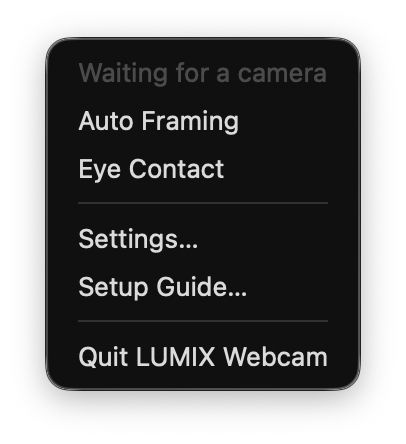
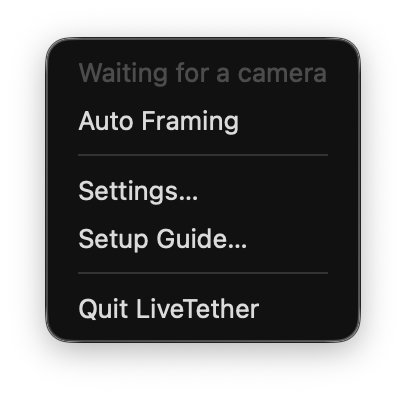
feat: rename the app to LiveTether and add an installer package
The app, its menu, setup guide, virtual camera and manufacturer are now
named LiveTether, and LUMIX appears only to name the supported cameras.
Bundle identifiers, the app group and the log subsystem are unchanged, so
an installed camera extension and its settings carry over. The extension
build number is 5.

scripts/make-installer.sh builds a signed and notarized installer package
that installs the app in /Applications, quits a running copy first and
opens the app afterwards.

Changed region(s): [[0.0887, 0.0606, 0.8867, 0.4242], [0.1773, 0.4545, 0.798, 0.697], [0.0887, 0.7576, 0.8867, 0.8788]]

diff --git a/scripts/check-window-layout.swift b/scripts/check-window-layout.swift
@@ -1,4 +1,4 @@
-// Opens every window of the LUMIX Webcam app in each language and reports text cut short with an
+// Opens every window of the LiveTether app in each language and reports text cut short with an
 // ellipsis, content that scrolls, and windows taller than the screen.
 //
 // The app is started once per language with -AppleLanguages. The setup guide opens by itself while
@@ -9,12 +9,12 @@
 // a line ends in an ellipsis.
 //
 // The app's windows come to the front for about ten seconds per language. The terminal running
-// the check needs the Accessibility and Screen Recording permissions. Quit LUMIX Webcam first.
+// the check needs the Accessibility and Screen Recording permissions. Quit LiveTether first.
 //
 // With --screenshots, each window is also saved with its shadow, and the menu bar menu as well, as
 // <directory>/<language>-<window>.png.
 //
-// Usage: swift scripts/check-window-layout.swift <LUMIX Webcam.app> [--screenshots <directory>] [language ...]
+// Usage: swift scripts/check-window-layout.swift <LiveTether.app> [--screenshots <directory>] [language ...]
 // Exit status 0 means no window had a finding.
 
 import AppKit
@@ -297,7 +297,7 @@ func run(language: String) {
     func localized(_ key: String) -> String { table[key] ?? key }
 
     let process = Process()
-    process.executableURL = appURL.appendingPathComponent("Contents/MacOS/LUMIX Webcam")
+    process.executableURL = appURL.appendingPathComponent("Contents/MacOS/LiveTether")
     process.arguments = ["-AppleLanguages", "(\(language))"]
     do {
         try process.run()
@@ -317,19 +317,19 @@ func run(language: String) {
         return
     }
     // The guide opens by itself only while a setup step remains; otherwise open it from the menu.
-    var guide = waitForWindow(of: app, titled: localized("LUMIX Webcam Setup"), timeout: 3)
+    var guide = waitForWindow(of: app, titled: localized("LiveTether Setup"), timeout: 3)
     if guide == nil, let item = waitForMenuBarItem(of: app, timeout: 1) {
         AXUIElementPerformAction(item, kAXPressAction as CFString)
         wait(0.5)
         if let entry = descendants(item, where: { role($0) == kAXMenuItemRole && title($0) == localized("Setup Guide…") }).first {
             AXUIElementPerformAction(entry, kAXPressAction as CFString)
         }
-        guide = waitForWindow(of: app, titled: localized("LUMIX Webcam Setup"), timeout: 5)
+        guide = waitForWindow(of: app, titled: localized("LiveTether Setup"), timeout: 5)
     }
     if let guide {
         wait(0.8)
         check(window: guide, pid: process.processIdentifier, name: "setup-guide", language: language,
-              anchors: [localized("Set Up LUMIX Webcam")])
+              anchors: [localized("Set Up LiveTether")])
     } else {
         findings.append("[\(language)] setup guide did not open")
     }
@@ -386,8 +386,8 @@ func run(language: String) {
     }
 }
 
-guard FileManager.default.fileExists(atPath: appURL.appendingPathComponent("Contents/MacOS/LUMIX Webcam").path) else {
-    print("usage: swift scripts/check-window-layout.swift <LUMIX Webcam.app> [language ...]")
+guard FileManager.default.fileExists(atPath: appURL.appendingPathComponent("Contents/MacOS/LiveTether").path) else {
+    print("usage: swift scripts/check-window-layout.swift <LiveTether.app> [language ...]")
     exit(2)
 }
 guard AXIsProcessTrusted(), CGPreflightScreenCaptureAccess() else {

diff --git a/App/Views/SetupGuideView.swift b/App/Views/SetupGuideView.swift
@@ -11,17 +11,17 @@ struct SetupGuideView: View {
 
     var body: some View {
         VStack(alignment: .leading, spacing: 18) {
-            Text("Set Up LUMIX Webcam")
+            Text("Set Up LiveTether")
                 .font(.title2.weight(.semibold))
                 .fixedSize(horizontal: false, vertical: true)
 
             GuideStep(number: 1, title: "Run from the Applications folder", done: model.installer.isInApplicationsFolder) {
-                Text("The camera extension can only be installed while LUMIX Webcam runs from the Applications folder.")
+                Text("The camera extension can only be installed while LiveTether runs from the Applications folder.")
             }
 
             GuideStep(number: 2, title: "Install the camera extension", done: model.installer.state == .installed) {
                 Text(verbatim: StatusText.installer(model.installer.state))
-                Text("After you click Install, allow LUMIX Webcam in System Settings > General > Login Items & Extensions > Camera Extensions.")
+                Text("After you click Install, allow LiveTether in System Settings > General > Login Items & Extensions > Camera Extensions.")
                 HStack {
                     Button("Install") { model.installer.install() }
                         .disabled(model.installer.state == .installed || model.installer.state == .installing)
@@ -33,12 +33,12 @@ struct SetupGuideView: View {
                 Text("Set the camera's USB mode to PC (Tether) and connect it to this Mac with a USB cable. Avoid USB hubs and charge-only ports.")
             }
 
-            GuideStep(number: 4, title: "Choose LUMIX Webcam as the camera", done: model.clientsActive) {
-                Text("In any app that uses a camera, such as FaceTime, Zoom, OBS or QuickTime Player, choose LUMIX Webcam.")
+            GuideStep(number: 4, title: "Choose LiveTether as the camera", done: model.clientsActive) {
+                Text("In any app that uses a camera, such as FaceTime, Zoom, OBS or QuickTime Player, choose LiveTether.")
             }
 
             if model.legacyPluginInstalled {
-                Text("The earlier LUMIX Webcam Software is still installed. macOS 14.1 and later do not load it, and LUMIX Webcam replaces it.")
+                Text("The earlier LUMIX Webcam Software is still installed. macOS 14.1 and later do not load it, and LiveTether replaces it.")
                     .font(.footnote)
                     .foregroundStyle(.secondary)
                     .fixedSize(horizontal: false, vertical: true)

diff --git a/Packages/LumixKit/Sources/LumixVirtualCamera/VirtualCameraIdentity.swift b/Packages/LumixKit/Sources/LumixVirtualCamera/VirtualCameraIdentity.swift
@@ -8,12 +8,12 @@ public enum VirtualCameraIdentity {
     public static let sourceStreamID = UUID(uuidString: "C573536A-1488-407C-B379-3F6992A544D6")!
     public static let sinkStreamID = UUID(uuidString: "5256F64F-D6B4-48E1-9853-E18C29D5C279")!
 
-    public static let deviceName = "LUMIX Webcam"
-    public static let modelName = "LUMIX Webcam"
+    public static let deviceName = "LiveTether"
+    public static let modelName = "LiveTether"
     /// The independent project that provides the virtual camera, not the camera maker.
-    public static let manufacturer = "LUMIX Webcam Project"
-    public static let sourceStreamName = "LUMIX Webcam Video"
-    public static let sinkStreamName = "LUMIX Webcam Input"
+    public static let manufacturer = "LiveTether Project"
+    public static let sourceStreamName = "LiveTether Video"
+    public static let sinkStreamName = "LiveTether Input"
 
     public static var deviceUID: String { deviceID.uuidString }
 

diff --git a/Packages/LumixKit/Tools/SinkProbe/SinkProbe.swift b/Packages/LumixKit/Tools/SinkProbe/SinkProbe.swift
@@ -8,7 +8,7 @@ import LumixVirtualCamera
 /// the app and a camera, so the extension can be checked in any camera app without hardware.
 ///
 /// Usage: `lumix-sink-probe [seconds] [width] [height]` (defaults: 30 s, 1280 × 960). Quit the
-/// LUMIX Webcam app first; only one client can own the sink stream.
+/// LiveTether app first; only one client can own the sink stream.
 @main
 struct SinkProbe {
     static func main() async {
@@ -20,7 +20,7 @@ struct SinkProbe {
             try sink.connect()
         } catch {
             print("Cannot reach the camera extension's sink stream: \(error)")
-            print("Is the extension installed and activated? Is the LUMIX Webcam app quit?")
+            print("Is the extension installed and activated? Is the LiveTether app quit?")
             exit(1)
         }
         print("Sending a \(size) test pattern for \(seconds) s")

diff --git a/Packages/LumixKit/Tools/FramingProbe/FramingProbe.swift b/Packages/LumixKit/Tools/FramingProbe/FramingProbe.swift
@@ -10,7 +10,7 @@ import LumixVirtualCamera
 /// Every frame goes through the same detector, framer and cropper the app uses. The tool prints
 /// how often people were found and how the crop moved, and counts frames in which a framed person
 /// fell outside the crop. Without --no-sink it also feeds the framed pictures to the camera
-/// extension in real time, so the result can be watched in any camera app (quit LUMIX Webcam first).
+/// extension in real time, so the result can be watched in any camera app (quit LiveTether first).
 ///
 /// With --write <file>, the framed pictures are also written to a movie file.
 ///

diff --git a/App/LiveTetherApp.swift b/App/LiveTetherApp.swift
@@ -2,7 +2,7 @@ import AppKit
 import SwiftUI
 
 @main
-struct LumixWebcamApp: App {
+struct LiveTetherApp: App {
     @State private var model = AppModel()
 
     var body: some Scene {
@@ -16,7 +16,7 @@ struct LumixWebcamApp: App {
             SettingsView(model: model)
         }
 
-        Window("LUMIX Webcam Setup", id: SetupGuideView.windowID) {
+        Window("LiveTether Setup", id: SetupGuideView.windowID) {
             SetupGuideView(model: model)
         }
         .windowResizability(.contentSize)

diff --git a/App/StatusText.swift b/App/StatusText.swift
@@ -42,7 +42,7 @@ enum StatusText {
         case .uninstalling:
             return String(localized: "Uninstalling")
         case .outsideApplicationsFolder:
-            return String(localized: "Move LUMIX Webcam to the Applications folder first")
+            return String(localized: "Move LiveTether to the Applications folder first")
         case .failed(let reason):
             return String(localized: "Failed: \(reason)")
         }

diff --git a/scripts/make-app-icon.swift b/scripts/make-app-icon.swift
@@ -1,4 +1,4 @@
-// Draws the LUMIX Webcam app icon and writes it as a macOS app icon set.
+// Draws the LiveTether app icon and writes it as a macOS app icon set.
 //
 // The icon is a camera lens on a dark body, lit by green and blue coating reflections, with the red
 // light a webcam shows while it is in use. It carries no logo or lettering.

diff --git a/Packages/LumixKit/Sources/LumixProtocol/Logging.swift b/Packages/LumixKit/Sources/LumixProtocol/Logging.swift
@@ -1,6 +1,6 @@
 import os
 
-/// Unified-logging subsystem shared by every LUMIX Webcam process and module.
+/// Unified-logging subsystem shared by every LiveTether process and module.
 public enum LumixLog {
     public static let subsystem = "com.github.thkwag.lumixwebcam"
 

diff --git a/App/Views/MenuContent.swift b/App/Views/MenuContent.swift
@@ -30,7 +30,7 @@ struct MenuContent: View {
             NSApp.activate()
         }
         Divider()
-        Button("Quit LUMIX Webcam") {
+        Button("Quit LiveTether") {
             NSApp.terminate(nil)
         }
     }

diff --git a/README.md b/README.md
@@ -1,17 +1,19 @@
 <p align="center">
-  <img src="App/Assets.xcassets/AppIcon.appiconset/icon_128x128@2x.png" width="128" height="128" alt="LUMIX Webcam app icon">
+  <img src="App/Assets.xcassets/AppIcon.appiconset/icon_128x128@2x.png" width="128" height="128" alt="LiveTether app icon">
 </p>
 
-<h1 align="center">LUMIX Webcam</h1>
+<h1 align="center">LiveTether</h1>
 
-LUMIX Webcam turns the live view of a Panasonic LUMIX camera connected over USB into a webcam on
+<p align="center">A webcam for Panasonic LUMIX cameras on macOS</p>
+
+LiveTether turns the live view of a Panasonic LUMIX camera connected over USB into a webcam on
 macOS 14.1 and later. Any app that uses a camera can choose it: FaceTime, QuickTime Player, OBS,
 web browsers and video-conferencing apps.
 
-Panasonic's LUMIX Webcam Software does not support macOS 14.1 and later. LUMIX Webcam is a separate
+Panasonic's LUMIX Webcam Software does not support macOS 14.1 and later. LiveTether is a separate
 app built on Apple's Core Media I/O camera extension API.
 
-LUMIX Webcam is an independent project. It is not made, endorsed or supported by Panasonic.
+LiveTether is an independent project. It is not made, endorsed or supported by Panasonic.
 LUMIX and Panasonic are trademarks or registered trademarks of Panasonic Holdings Corporation and
 are used here only to name the cameras this app works with. All other trademarks belong to their
 respective owners.
@@ -19,10 +21,10 @@ respective owners.
 ## How it works
 
 - The menu bar app finds the camera through ImageCaptureCore and opens a PTP session with it.
-  While an app is using LUMIX Webcam, it turns on the camera's live view, fetches JPEG frames at up
+  While an app is using LiveTether, it turns on the camera's live view, fetches JPEG frames at up
   to 30 fps, decodes them and passes them to the camera extension. When no app is using LUMIX
   Webcam, it turns live view off.
-- The camera extension publishes a camera named LUMIX Webcam with 1920 × 1080, 1280 × 720 and
+- The camera extension publishes a camera named LiveTether with 1920 × 1080, 1280 × 720 and
   1280 × 960 formats at 30 fps. It fits the camera picture into the format the app chose, with
   black bars where the aspect ratios differ. While no camera picture arrives, it shows a standby
   screen that says why.
@@ -45,12 +47,13 @@ sends commands that change camera settings, format a card or update firmware.
 
 ## Set up
 
-1. Move LUMIX Webcam to the Applications folder and open it. A camera icon appears in the menu bar,
+1. Download the installer (`LiveTether-<version>.pkg`) from Releases and open it. The installer
+   puts LiveTether in the Applications folder and opens it. A camera icon appears in the menu bar,
    and the setup guide opens.
-2. Click Install in the setup guide, then allow LUMIX Webcam in System Settings > General >
+2. Click Install in the setup guide, then allow LiveTether in System Settings > General >
    Login Items & Extensions > Camera Extensions.
 3. Set the camera's USB mode to PC (Tether) and connect it to the Mac.
-4. In the app you want to use, choose LUMIX Webcam as the camera.
+4. In the app you want to use, choose LiveTether as the camera.
 
 <p align="center">
   <img src=".github/images/setup-guide.png" width="600" alt="The setup guide">
@@ -64,9 +67,9 @@ The menu bar icon opens a menu with the camera status, Auto Framing, the setting
 
 | Tab | Settings |
 | --- | --- |
-| General | Install or uninstall the camera extension, open LUMIX Webcam at login |
+| General | Install or uninstall the camera extension, open LiveTether at login |
 | Camera | The live-view size the camera sends (Automatic picks the largest size at 30 fps), Auto Framing and its shot (head and shoulders, or upper body), frame statistics |
-| Advanced | The USB product IDs of the cameras LUMIX Webcam uses (default `0x2382`) |
+| Advanced | The USB product IDs of the cameras LiveTether uses (default `0x2382`) |
 
 <p align="center">
   <img src=".github/images/settings-general.png" width="400" alt="The General settings tab">
@@ -74,13 +77,13 @@ The menu bar icon opens a menu with the camera status, Auto Framing, the setting
   <img src=".github/images/settings-advanced.png" width="400" alt="The Advanced settings tab">
 </p>
 
-If the camera is connected but LUMIX Webcam does not find it, look up the camera's product ID in
+If the camera is connected but LiveTether does not find it, look up the camera's product ID in
 System Information > USB and add it on the Advanced tab.
 
-If LUMIX Webcam does not appear as a camera in other apps, click Uninstall and then Install on the
+If LiveTether does not appear as a camera in other apps, click Uninstall and then Install on the
 General tab, and allow the extension again in System Settings.
 
-To remove LUMIX Webcam, click Uninstall on the General tab, then delete the app.
+To remove LiveTether, click Uninstall on the General tab, then delete the app.
 
 ## Build
 
@@ -88,7 +91,7 @@ Building needs Xcode 26 (Swift 6.2) and [XcodeGen](https://github.com/yonaskolb/
 
 ```sh
 xcodegen generate
-xcodebuild -project LumixWebcam.xcodeproj -scheme LumixWebcam -configuration Release \
+xcodebuild -project LiveTether.xcodeproj -scheme LiveTether -configuration Release \
   -derivedDataPath build/DerivedData.noindex -allowProvisioningUpdates build
 ```
 
@@ -96,6 +99,17 @@ A camera extension only loads when the app and the extension are signed, and the
 install it while it runs from the Applications folder. To build under your own Apple developer
 team, set `DEVELOPMENT_TEAM` in `project.yml`, change `bundleIdPrefix` there, and change
 `ExtensionInstaller.extensionIdentifier` in `App/ExtensionInstaller.swift` to match.
+
+### Installer
+
+`scripts/make-installer.sh` turns a signed and notarized `LiveTether.app` into an installer package
+that puts the app in the Applications folder and opens it. Signing the package needs a Developer ID
+Installer certificate, and notarizing it needs a `notarytool` keychain profile:
+
+```sh
+scripts/make-installer.sh LiveTether.app LiveTether-<version>.pkg \
+  --sign "Developer ID Installer: <name> (<team>)" --notarize <profile>
+```
 
 ### App icon
 
@@ -114,15 +128,15 @@ python3 scripts/check-localization.py
 
 `scripts/check-window-layout.swift` opens the setup guide and every settings tab of a built app in
 English, Korean and Japanese, and reports text cut short with an ellipsis, content that scrolls,
-and windows taller than the screen. Quit LUMIX Webcam first. The check brings the app's windows to
+and windows taller than the screen. Quit LiveTether first. The check brings the app's windows to
 the front for about ten seconds per language, and the terminal needs the Accessibility and Screen
 Recording permissions. `--screenshots <directory>` also saves each window as a screenshot.
 
 ```sh
-swift scripts/check-window-layout.swift "build/DerivedData.noindex/Build/Products/Release/LUMIX Webcam.app"
+swift scripts/check-window-layout.swift "build/DerivedData.noindex/Build/Products/Release/LiveTether.app"
 ```
 
-`lumix-sink-probe` checks the camera extension without a camera. Quit LUMIX Webcam first, because
+`lumix-sink-probe` checks the camera extension without a camera. Quit LiveTether first, because
 only one program can feed the extension at a time, then run:
 
 ```sh
@@ -130,7 +144,7 @@ cd Packages/LumixKit && swift run lumix-sink-probe 30 1280 960
 ```
 
 It feeds a moving test pattern of the given size to the extension for the given number of
-seconds. Choose LUMIX Webcam in a camera app to see it.
+seconds. Choose LiveTether in a camera app to see it.
 
 `lumix-framing-probe` runs Auto Framing over a video file with people in it, using the same
 detector, framer and cropper as the app. It prints how often people were found, how long a
@@ -157,11 +171,12 @@ cd Packages/LumixKit && swift run lumix-framing-probe ~/Movies/people.mov
 | `scripts/check-localization.py` | The localization check |
 | `scripts/check-window-layout.swift` | The window layout check |
 | `scripts/make-app-icon.swift` | The app icon drawing |
+| `scripts/make-installer.sh`, `scripts/package/` | The installer package and its install scripts |
 | `.github/images/` | The screenshots in this file |
 
 ## Localization
 
-LUMIX Webcam is written in English and translated into Korean and Japanese. Each `ko.lproj` and
+LiveTether is written in English and translated into Korean and Japanese. Each `ko.lproj` and
 `ja.lproj` string table must hold exactly the keys of its English table, with the same format
 specifiers, and every localized string in the app's Swift sources must have an English entry.
 `scripts/check-localization.py` checks both.
@@ -169,4 +184,4 @@ specifiers, and every localized string in the app's Swift sources must have an E
 ## Trademarks
 
 LUMIX and Panasonic are trademarks or registered trademarks of Panasonic Holdings Corporation.
-LUMIX Webcam is not affiliated with, endorsed by or supported by Panasonic.
+LiveTether is not affiliated with, endorsed by or supported by Panasonic.
